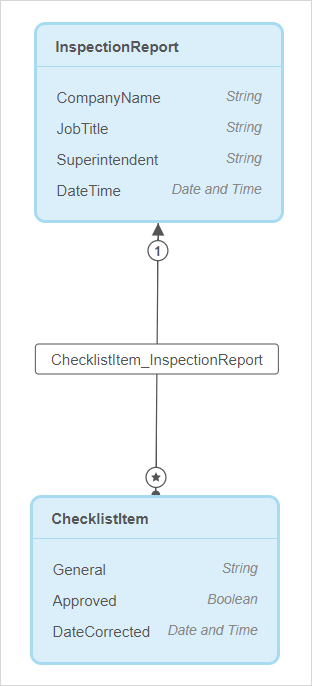
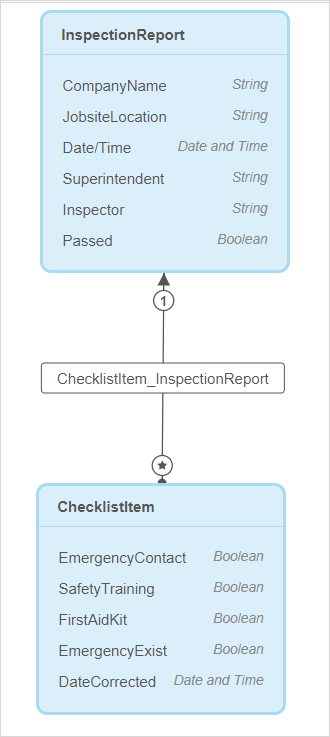
Continue writing the how-to

Changed region(s): [[0.0865, 0.0, 0.9231, 0.9796]]

diff --git a/content/studio/page-editor-how-to-configure-list.md b/content/studio/page-editor-how-to-configure-list.md
@@ -12,15 +12,29 @@ This how-to explains how you can configure a list of items in Mendix Studio.
 
 **This how-to will teach you how to do the following:**
 
-* 
+* Create a new page
+* Configure a list view
+* Configure a data view that listens to a list view
+* Configure a data grid
 
 The how-to describes the following use case: 
 
 The HSE department of your company has the following inspection report:
 
-![](attachments/page-editor-how-to-configure-list/safety-checklist.jpg)
+![](attachments/page-editor-how-to-configure-list/report-example.png)
 
-Your company has an application that is used by superintendents who travel to different companies and inspect whether they comply with safety regulations. You would like to display details of an inspection report and a checklist for it on one page in this app.
+Your company has an application that is used by inspectors who travel to different companies and inspect whether these companies comply with safety regulations. They fill in a company name, jobsite location, data and time when the inspection was conducted, as well as full name of a superintendent who was present during the inspection and their own names. 
+
+Inspectors also have a safety inspection checklist based on this checklist the inspector evaluates whether the company passed the inspection. They check the following:
+
+* If emergency contact posters are displayed
+* If safety training are held regularly
+* If first-aid kits are available 
+* If emergency exists are clear and not blocked
+
+If any of the above requirements are not met, during the next inspection the inspector indicates the date when the safety violation was fixed. 
+
+You would like to display details of an inspection report and a checklist for it on one page.
 
 ## 2 Prerequisites
 
@@ -28,9 +42,9 @@ Before starting this how-to, make sure you have completed the following prerequi
 
 * You domain model is configured the following way:
 
-    <img src="attachments/page-editor-how-to-configure-list/domain-model.png" alt="Domain Model" style="zoom:80%;" />
+    <img src="attachments/page-editor-how-to-configure-list/domain-model.png" alt="Domain Model" style="zoom: 67%;" />
 
-## 3 Adding a Master Detail Page
+## 3 Adding the Master Detail Page
 
 You would like to open a page with inspection report details from your home page. Do the following:
 
@@ -57,25 +71,109 @@ You would like to open a page with inspection report details from your home page
 		<img src="attachments/page-editor-how-to-configure-list/create-new-page.png" alt="Create New Page" style="zoom:80%;" />
 
 	5. Click **Create**.
-	
-5. The page is created, now you need to configure it. In the Desktop view, a list is displayed on the left and list item details are displayed on the right:
 
-    ![](attachments/page-editor-how-to-configure-list/master-details.png) 
+The page is created. In the Desktop view, a list is displayed on the left and list item details are displayed on the right:
 
-	You need to connect data to the list first. Do the following:
+![](attachments/page-editor-how-to-configure-list/master-details.png) 
 
-	1. Select the list view and click the **Entity** option in its properties:
-	
-		![List View Properties](attachments/page-editor-how-to-configure-list/list-view-entity.png)
-	
-	2. In the **Select Entity** dialog box, select *InspectionReport* and confirm your choice by clicking **Select**. 
-	
-	3. Delete the **New** button above the list view together with the container it is placed in as you are going only to display data on this page.
-	
-	4. Delete the empty column and **Edit**, **Send Email**, and **Delete** buttons on the right as you will only  display data on this data, not change it.
-	
-	5. Select the *User Details* text. 
+## Configuring a List of Reports
 
-## Read More
+The page is created, now you need to configure it.  You need to connect data to the list first. Do the following:
 
-* [Widgets](page-editor-widgets)
+1. Select the list view and click the **Entity** option in its properties:
+
+	![List View Properties](attachments/page-editor-how-to-configure-list/list-view-entity.png)
+
+2. In the **Select Entity** dialog box, select *InspectionReport* and confirm your choice by clicking **Select**. Now the list is connected to the *InspectionReport* data. 
+
+3. To display the name of each report dynamically, do the following:
+
+    1. Select the **Name** text widget in the list view and click the properties icon to quickly configure its properties:
+
+		<img src="attachments/page-editor-how-to-configure-list/text-widget-list-view.png" alt="List View Text Widget" style="zoom:67%;" />
+
+    2. In the dialog box, delete *Name* from the **Content** property and click **Add attribute**:
+
+		<img src="attachments/page-editor-how-to-configure-list/quick-config.png" style="zoom:80%;" />
+
+    3. In the **Select Attribute** dialog box, choose *CompanyName* and click **Select**. 
+
+4. Delete the **New** button above the list view together with the container it is placed in as you are going only to display data on this page.
+
+Now the list view will display a list with company names. 
+
+## Configuring Report Details
+
+Now you need to configure report details displayed next to the list. The idea is when you select the company name from the list, the details of the latest inspection report for this company will be displayed. 
+
+As you chose the Master Details page template in steps above, it has preconfigured data view that listens to the list view. That means that the data view has access to the list view data. Now you need to configure text boxes inside the data view to show attributes of the *InspectionReport* entity, that is to show a company name, site location, date and time of the inspection, inspector's name, etc. 
+
+All the details that a report has need to be displayed. Do the following:
+
+1. Delete the empty column and **Edit**, **Send Email**, and **Delete** buttons on the right as you will only  display data on this data, not change it.
+
+2. Select the *User Details* text widget and change it to *Inspection Report Details* by double-clicking the text. 
+
+3. Select the *Name* text box and click **Data Source** > **Attribute** in its properties. 
+
+4. In the **Select Attribute** dialog box, choose *CompanyName* and click **Select**:
+
+	<img src="attachments/page-editor-how-to-configure-list/select-attribute.png" alt="Select Attribute" style="zoom:80%;" />
+
+5. Select the *Phonenumber* text box and click **Data Source** > **Attribute** in its properties.
+
+6. In the **Select Attribute** dialog box, choose *Location* and click **Select**. 
+
+7. Select the *Email* text box and click **Data Source** > **Attribute** in its properties.
+
+8. In the **Select Attribute** dialog box, choose *Superintendent* and click **Select**. 
+
+9. Select the *Birthday* date picker and click **Data Source** > **Attribute** in its properties.
+
+10. In the **Select Attribute** dialog box, choose *DateAndTime* and click **Select**. 
+
+11. Select the *Bio* text box and click **Data Source** > **Attribute** in its properties.
+
+12. In the **Select Attribute** dialog box, choose *Inspector* and click **Select**. 
+
+13. To add information on whether the company passed the check, you need to add radio buttons with *Yes* and *No* options. Open **Toolbox** and search for radio buttons:
+
+    ![Radio Buttons](attachments/page-editor-how-to-configure-list/radio-buttons.png)
+
+14. Drag and drop radio buttons inside the data view.
+
+15. In the dialog box that appears next to it, click the **Attribute** property:
+
+	<img src="attachments/page-editor-how-to-configure-list/radio-buttons-attribute.png" style="zoom:70%;" />
+
+16. In the **Select Attribute** dialog box, choose *Passed* and click **Select**. 
+
+Now the data view and widgets inside it show the details of the inspection report that is selected in the list:
+
+ <img src="attachments/page-editor-how-to-configure-list/data-view-configured.png" alt="Configured Dat View" style="zoom:70%;" />
+
+## Showing Checklist Items
+
+1. Open **Toolbox** > **Data Containers**.
+
+2.  Drag and drop **Data Grid** *inside* the data view.
+
+3. In the dialog box that appears next to the data grid, click **Entity**:
+
+	<img src="attachments/page-editor-how-to-configure-list/data-grid-entity.png" style="zoom:70%;" />
+
+4. To show only checklist items associated with the current inspection report, choose entity Checklist over association (*ChecklistItem_InspectionReport/ChecklistItem*) in the **Select Entity** dialog box and click **Select**:
+
+    <img src="attachments/page-editor-how-to-configure-list/data-grid-over-association.png" style="zoom:70%;" />
+    
+5. As the purpose of the page is to display information, you do not need the Search section in the data grid. Open data grid properties > **Search** section and disable the **Enable Search** toggle:
+
+    ![Data Grid Search](attachments/page-editor-how-to-configure-list/data-grid-search.png)
+
+6. You also do not need **Search**, **New**, **Edit**, and **Delete** buttons in the data grid. Open data grid properties > **Control Bar** section and disable the **Show Buttons** toggle:
+
+	![Show Buttons Toggle](attachments/page-editor-how-to-configure-list/data-grid-show-buttons.png)
+
+Now checklist items are displayed in a table below the inspection details.
+
+Congratulations! You have a page that displayed a list of inspection reports, details of the selected report and checklist items of this report.	 
